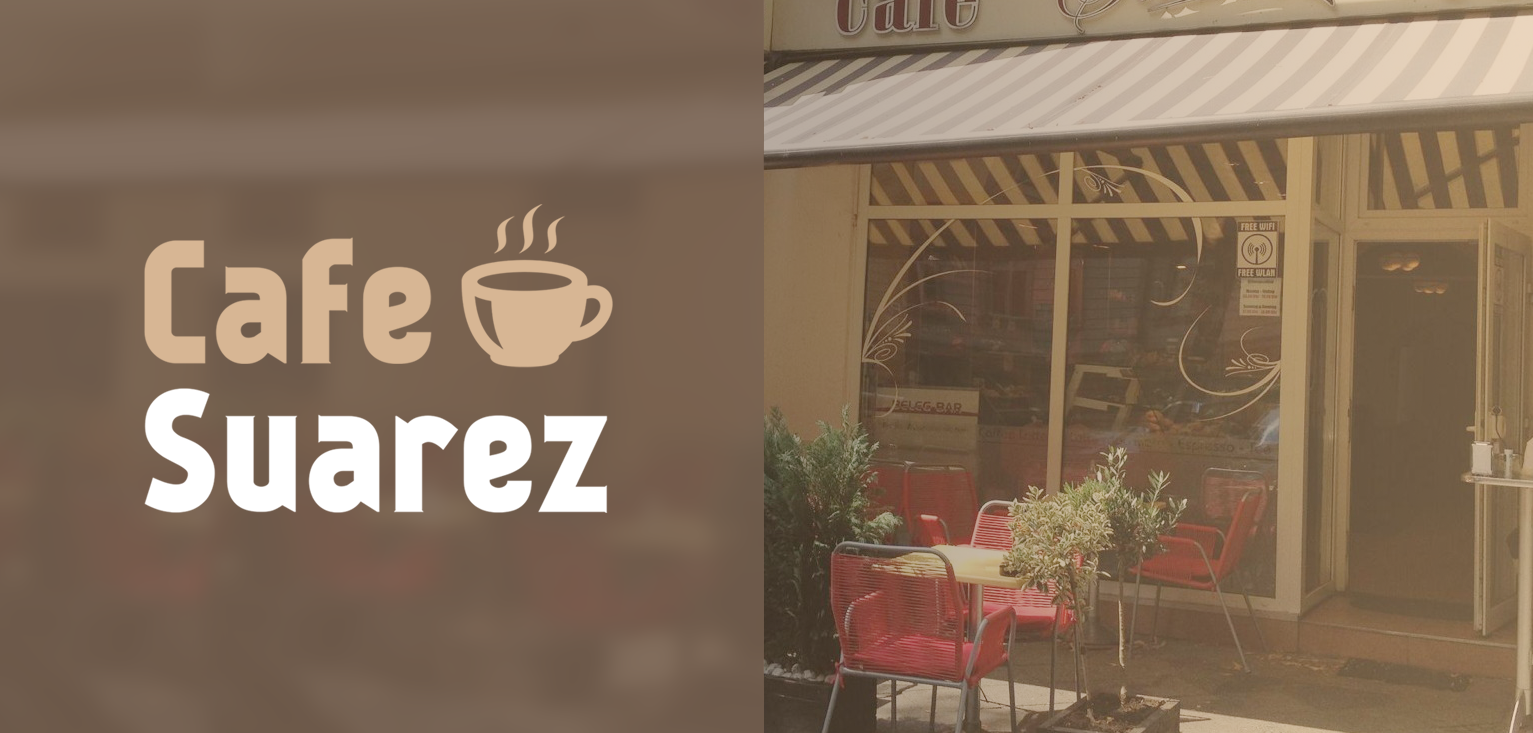
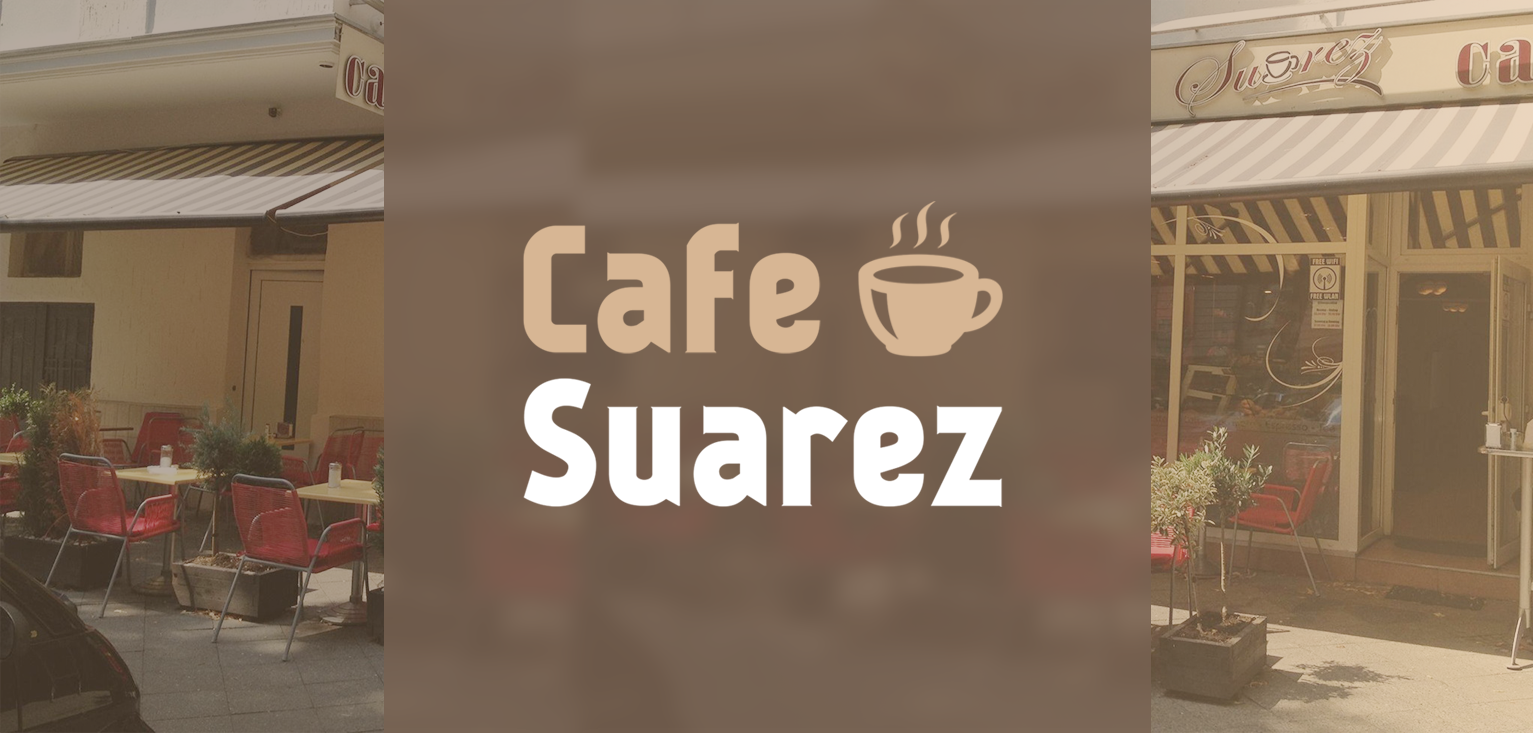
code changes

diff --git a/css/master.less b/css/master.less
@@ -3,9 +3,14 @@
 /* Colors */
 
 @rose: #FF7766;
+
+@bricklite: #9A8572;
 @brick: #786350;
+@brickdark: #544130;
+
 @coffee: #C9A586;
 @coffeelite: #EBC7A8;
+
 @header: @brick;
 
 @site: #353535;
@@ -22,6 +27,11 @@
 @big: 22px;
 @mid: 18px;
 @normal: 14px;
+
+/* Box-Shadows */
+
+@shadeL: -2px 0px 20px @brickdark;
+@shadeR: 2px 0px 20px @brickdark;
 
 /* Custom Font */
 
@@ -56,39 +66,32 @@
 }
 
 ::-webkit-scrollbar-thumb {
-    background: @brick;
-}
-
-::-webkit-scrollbar-thumb:hover {
     background: @coffee;
 }
 
-textarea,
-input[type='text'],
-button {
+::-webkit-scrollbar-thumb:hover {
+    background: @coffeelite;
+}
+
+input[type='text'] {
     outline: none;
     border: none;
 }
 
-input[type="text"],
-textarea {
+input[type="text"] {
     background-color: #AAA;
-    color: @rose;
-    resize: none;
+    color: @site;
 }
 
-input[type="text"]:hover,
-textarea:hover {
+input[type="text"]:hover {
     background-color: #CCC;
 }
 
-input[type="text"]:focus,
-textarea:focus {
-    background-color: @brick;
+input[type="text"]:focus {
+    background-color: #FFF;
 }
 
-input[type="text"]:focus::placeholder,
-textarea:focus:placeholder {
+input[type="text"]:focus::placeholder {
     color: transparent;
 }
 
@@ -114,14 +117,15 @@ body {
     background-color: @site;
 
     header {
-        margin: 0 20%;
-        height: 200px;
+        div {
+            margin: 0 20%;
+            height: 200px;
+            background-image: url(/res/img/banner.png);
+            background-size: 100%;
+            background-position: center;
+            box-shadow: @shadeL, @shadeR;
+        }
         background-color: @header;
-        background-image: url(/res/img/banner.png);
-        background-size: 100%;
-        background-position: center;
-        /*background-image: url(/res/img/banner.png);
-        background-size: cover;*/
     }
 
     nav {
@@ -132,7 +136,6 @@ body {
             justify-content: flex-end;
             position: sticky;
             top: 23px;
-            z-index: 1;
 
             .dropdown {
                 position: relative;
@@ -184,7 +187,7 @@ body {
             .dropdown:hover {
                 filter: grayscale(0%);
                 background-color: #CCC;
-                background-size: 120%;
+                background-size: 125%;
 
                 a {
                     color: #000;
@@ -234,7 +237,6 @@ body {
         background-color: #454545;
         height: 100vh;
 
-        /* The alert message boxes */
         .alert {
             padding: 15px;
             color: #000;
@@ -292,7 +294,6 @@ body {
         }
     }
 
-    /* Footer */
     footer {
         margin: 0px 20%;
         padding: 10px;
@@ -303,6 +304,18 @@ body {
         * {
             color: #FFF;
             font-size: 12px;
+        }
+    }
+}
+
+@media screen and (max-width: 800px) {
+    body {
+        header {
+            div {
+                background-size: contain;
+                background-repeat: no-repeat;
+                background-image: url(/res/img/banner_alt.png);
+            }
         }
     }
 }

diff --git a/css/master.css b/css/master.css
@@ -3,6 +3,7 @@
 /* Colors */
 /* Fonts */
 /* Font-Sizes */
+/* Box-Shadows */
 /* Custom Font */
 @font-face {
   font-family: Kankin2;
@@ -28,33 +29,26 @@
   background: #AAA;
 }
 ::-webkit-scrollbar-thumb {
-  background: #786350;
-}
-::-webkit-scrollbar-thumb:hover {
   background: #c9a586;
 }
-textarea,
-input[type='text'],
-button {
+::-webkit-scrollbar-thumb:hover {
+  background: #ebc7a8;
+}
+input[type='text'] {
   outline: none;
   border: none;
 }
-input[type="text"],
-textarea {
+input[type="text"] {
   background-color: #AAA;
-  color: #ff7766;
-  resize: none;
+  color: #353535;
 }
-input[type="text"]:hover,
-textarea:hover {
+input[type="text"]:hover {
   background-color: #CCC;
 }
-input[type="text"]:focus,
-textarea:focus {
-  background-color: #786350;
+input[type="text"]:focus {
+  background-color: #FFF;
 }
-input[type="text"]:focus::placeholder,
-textarea:focus:placeholder {
+input[type="text"]:focus::placeholder {
   color: transparent;
 }
 ::placeholder {
@@ -67,17 +61,17 @@ textarea:focus:placeholder {
 body {
   overflow-x: hidden;
   background-color: #353535;
-  /* Footer */
 }
 body header {
+  background-color: #786350;
+}
+body header div {
   margin: 0 20%;
   height: 200px;
-  background-color: #786350;
   background-image: url(/res/img/banner.png);
   background-size: 100%;
   background-position: center;
-  /*background-image: url(/res/img/banner.png);
-        background-size: cover;*/
+  box-shadow: -2px 0px 20px #544130, 2px 0px 20px #544130;
 }
 body nav {
   padding: 0 20%;
@@ -87,7 +81,6 @@ body nav #nav_content {
   justify-content: flex-end;
   position: sticky;
   top: 23px;
-  z-index: 1;
 }
 body nav #nav_content .dropdown {
   position: relative;
@@ -131,7 +124,7 @@ body nav #nav_content #dd_kontakt {
 body nav #nav_content .dropdown:hover {
   filter: grayscale(0%);
   background-color: #CCC;
-  background-size: 120%;
+  background-size: 125%;
 }
 body nav #nav_content .dropdown:hover a {
   color: #000;
@@ -169,7 +162,6 @@ body main {
   margin: 0 20%;
   background-color: #454545;
   height: 100vh;
-  /* The alert message boxes */
 }
 body main .alert {
   padding: 15px;
@@ -226,4 +218,11 @@ body footer {
 body footer * {
   color: #FFF;
   font-size: 12px;
+}
+@media screen and (max-width: 800px) {
+  body header div {
+    background-size: contain;
+    background-repeat: no-repeat;
+    background-image: url(/res/img/banner_alt.png);
+  }
 }

diff --git a/index.html b/index.html
@@ -11,37 +11,37 @@
 
 <body>
     <header>
+        <div>
+        </div>
     </header>
 
     <nav>
         <div id="nav_content">
             <div class="dropdown" id="dd_produkte">
-                <a href="#">PRODUKTE</a>
+                <a href="html/products.html">PRODUKTE</a>
             </div>
             <div class="dropdown" id="dd_bestellung">
-                <a href="html/#">BESTELLUNG</a>
+                <a href="html/order.html">BESTELLUNG</a>
             </div>
             <div class="dropdown" id="dd_jobs">
-                <a href="html/#">JOBS</a>
+                <a href="html/jobs.html">JOBS</a>
             </div>
             <div class="dropdown" id="dd_kontakt">
-                <a href="html/#">KONTAKT</a>
+                <a href="html/contact.html">KONTAKT</a>
             </div>
         </div>
     </nav>
 
     <div id="nav_2">
         <div>
-            <img src="res/img/flag_de.png">
-            <img src="res/img/flag_en.png">
-            <img src="res/img/flag_tr.png">
+            <img src="res/img/flag_de.png" alt="Deutschland-Flagge">
+            <img src="res/img/flag_en.png" alt="England-Flagge">
+            <img src="res/img/flag_tr.png" alt="Türkei-Flagge">
         </div>
 
         <div class="search-container">
-            <form action="/action_page.php">
-                <input type="text" placeholder="Search.." name="search">
-                <button type="submit"><i class="fa fa-search"></i></button>
-            </form>
+            <input type="text" placeholder="Suche nach Produkt..." name="search">
+            <button type="submit"><i class="fa fa-search"></i></button>
         </div>
     </div>
 

diff --git a/html/order.html b/html/order.html
@@ -1,0 +1,16 @@
+<!DOCTYPE html>
+<html lang="de">
+    
+<head>
+    <meta name="viewport" content="initial-scale=1" />
+    <meta charset="UTF-8" />
+    <title>Cafe Suarez | Bestellung</title>
+    <link rel="stylesheet" type="text/css" href="../css/master.css" />
+    <script src="../js/script.js" defer></script>
+</head>
+
+<body>
+
+</body>
+    
+</html>

diff --git a/html/products.html b/html/products.html
@@ -1,0 +1,16 @@
+<!DOCTYPE html>
+<html lang="de">
+    
+<head>
+    <meta name="viewport" content="initial-scale=1" />
+    <meta charset="UTF-8" />
+    <title>Cafe Suarez | Produkte</title>
+    <link rel="stylesheet" type="text/css" href="../css/master.css" />
+    <script src="../js/script.js" defer></script>
+</head>
+
+<body>
+
+</body>
+    
+</html>

diff --git a/html/contact.html b/html/contact.html
@@ -1,0 +1,16 @@
+<!DOCTYPE html>
+<html lang="de">
+    
+<head>
+    <meta name="viewport" content="initial-scale=1" />
+    <meta charset="UTF-8" />
+    <title>Cafe Suarez | Kontakt</title>
+    <link rel="stylesheet" type="text/css" href="../css/master.css" />
+    <script src="../js/script.js" defer></script>
+</head>
+
+<body>
+
+</body>
+    
+</html>

diff --git a/html/jobs.html b/html/jobs.html
@@ -1,0 +1,16 @@
+<!DOCTYPE html>
+<html lang="de">
+    
+<head>
+    <meta name="viewport" content="initial-scale=1" />
+    <meta charset="UTF-8" />
+    <title>Cafe Suarez | Jobs</title>
+    <link rel="stylesheet" type="text/css" href="../css/master.css" />
+    <script src="../js/script.js" defer></script>
+</head>
+
+<body>
+
+</body>
+    
+</html>
